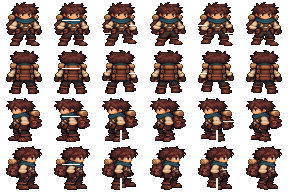
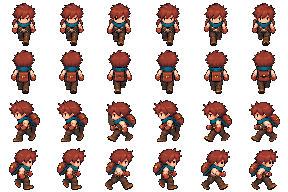
Integrate the approved 16-frame explorer walk without redrawing

diff --git a/tools/build_explorer_atlas.py b/tools/build_explorer_atlas.py
@@ -1,105 +1,66 @@
-"""Build transparent 48px explorer frames from the four-view pixel source.
+"""Deterministically extract the approved v0.3.7 poses, without redrawing.
 
-Only a build-time Pillow dependency is needed; Godot consumes the committed PNG.
-Rows: down, up, left, right. Columns: idle A/B, walk 0/1/2/3.
+Build-only dependencies: Pillow, numpy, opencv-python-headless.
+No runtime dependency. Source study is excluded from Godot by .gdignore.
+Rows down/up/left/right; columns held idle A/B, then four approved walk poses.
 """
-
 from pathlib import Path
+import cv2
+import numpy as np
 from PIL import Image
 
 ROOT = Path(__file__).resolve().parents[1]
-SOURCE = ROOT / "tools/source/explorer_views.png"
-DEST = ROOT / "assets/art/explorer_atlas.png"
-PREVIEW = ROOT / "docs/art/EXPLORER_WALK_V036.gif"
+SOURCE = ROOT / 'tools/source/explorer_approved_v037.png'
+DEST = ROOT / 'assets/art/explorer_atlas.png'
+WALK = ROOT / 'docs/art/EXPLORER_SHEET_V037.png'
+XS = [(164,337),(351,531),(548,722),(738,919)]
+YS = [(9,242),(250,488),(495,725),(725,953)]
 SIZE = 48
-# Source views were individually cut and reduced from the reference study.
-BOXES = [
-    (0, 0, 48, 48),      # down
-    (48, 0, 96, 48),    # up
-    (144, 0, 192, 48),  # left: face points to image left
-    (96, 0, 144, 48),   # right: face points to image right
-]
+SCALE = 0.19  # One scale for all 16 poses; no stretching limbs independently.
 
 
-def transparent() -> Image.Image:
-    return Image.new("RGBA", (SIZE, SIZE), (0, 0, 0, 0))
-
-
-def source_view(image: Image.Image, box: tuple[int, ...]) -> Image.Image:
-    frame = image.crop(box)
-    if box[0] == 0:
-        # Two readable eyes at native size; the hair and broad scarf remain the
-        # recognisable silhouette from the approved explorer.
-        frame.putpixel((20, 16), (53, 38, 35, 255))
-        frame.putpixel((29, 16), (53, 38, 35, 255))
+def extract(source, box):
+    rgb = np.array(source.crop(box))
+    h, w = rgb.shape[:2]
+    mask = np.full((h,w), cv2.GC_PR_FGD, np.uint8)
+    # Black outline seeds preserve boots that resemble the brown backdrop.
+    mask[rgb.max(axis=2) < 38] = cv2.GC_FGD
+    mask[:3] = mask[-3:] = cv2.GC_BGD
+    mask[:,:3] = mask[:,-3:] = cv2.GC_BGD
+    cv2.grabCut(rgb, mask, None, np.zeros((1,65)), np.zeros((1,65)),
+                8, cv2.GC_INIT_WITH_MASK)
+    alpha = np.uint8((mask == cv2.GC_FGD) | (mask == cv2.GC_PR_FGD))*255
+    _, labels, stats, _ = cv2.connectedComponentsWithStats(alpha)
+    alpha = labels == 1+np.argmax(stats[1:,cv2.CC_STAT_AREA])
+    rgba = Image.fromarray(np.dstack([rgb, alpha.astype(np.uint8)*255]))
+    bounds = rgba.getbbox()
+    cropped = rgba.crop(bounds)
+    # Head centre is a stable anchor; backpack/arms must not shift the torso.
+    hair = rgba.crop((0,0,w,95)).getbbox()
+    anchor = (hair[0]+hair[2])/2 - bounds[0]
+    resized = cropped.resize((round(cropped.width*SCALE),round(cropped.height*SCALE)),
+                             Image.Resampling.NEAREST)
+    frame = Image.new('RGBA',(SIZE,SIZE))
+    frame.alpha_composite(resized,(24-round(anchor*SCALE),46-resized.height))
+    assert frame.getbbox()[3] == 46
     return frame
 
 
-def idle(base: Image.Image, phase: int) -> Image.Image:
-    if phase == 0:
-        return base.copy()
-    # Only the scarf fringe breathes; the whole head/torso never jumps.
-    result = base.copy()
-    fringe = base.crop((14, 20, 32, 23))
-    result.paste((0, 0, 0, 0), (14, 20, 32, 23))
-    result.alpha_composite(fringe, (14, 21))
-    return result
+def main():
+    cv2.setRNGSeed(0)
+    source = Image.open(SOURCE).convert('RGB')
+    assert source.size == (1536,1024)
+    atlas = Image.new('RGBA',(SIZE*6,SIZE*4))
+    walk = Image.new('RGBA',(SIZE*4,SIZE*4))
+    for row,(y0,y1) in enumerate(YS):
+        frames = [extract(source,(x0,y0,x1,y1)) for x0,x1 in XS]
+        for column,frame in enumerate([frames[1],frames[1]]+frames):
+            atlas.alpha_composite(frame,(column*SIZE,row*SIZE))
+        for column,frame in enumerate(frames):
+            walk.alpha_composite(frame,(column*SIZE,row*SIZE))
+    atlas.save(DEST,optimize=True)
+    walk.save(WALK,optimize=True)
+    print('Approved walk:',walk.size, WALK.stat().st_size,'bytes; runtime atlas:',DEST.stat().st_size)
 
-
-def walk(base: Image.Image, direction: int, phase: int) -> Image.Image:
-    """Alternating contact/passing boots on one ground line, fixed torso anchor."""
-    result = base.copy()
-    result.paste((0, 0, 0, 0), (0, 34, SIZE, SIZE))
-    # Existing hand-drawn boots remain intact; move each independently by at
-    # most two pixels. Contact soles stay on the original y=45 baseline.
-    boxes = [(10, 34, 24, 47), (25, 34, 41, 47)] if direction < 2 else [
-        (10, 34, 25, 47), (25, 34, 41, 47)]
-    offsets = [((-1, 0), (1, -2)), ((1, 0), (-1, -1)),
-               ((-1, -2), (1, 0)), ((1, -1), (-1, 0))][phase]
-    order = (1, 0) if phase < 2 else (0, 1)
-    for index in order:
-        x0, y0, x1, y1 = boxes[index]
-        dx, dy = offsets[index]
-        leg = base.crop((x0, y0, x1, y1))
-        result.alpha_composite(leg, (x0 + dx, y0 + dy))
-        # Bridge the thigh to the planted hips without stretching the boot.
-        hip_x = 18 if index == 0 else 30
-        for y in range(34, 36):
-            color = base.getpixel((hip_x, y))
-            if color[3]:
-                result.putpixel((hip_x + dx // 2, y), color)
-    result.alpha_composite(base.crop((0, 30, SIZE, 34)), (0, 30))
-    swing = (-1, 0, 1, 0)[phase]
-    arms = ((5, 15), (33, 43)) if direction < 2 else ((31, 43),)
-    for arm_index, (x0, x1) in enumerate(arms):
-        arm = base.crop((x0, 25, x1, 34))
-        result.paste((0, 0, 0, 0), (x0, 25, x1, 34))
-        result.alpha_composite(arm, (x0, 25 + (swing if arm_index == 0 else -swing)))
-    return result
-
-
-def main() -> None:
-    source = Image.open(SOURCE).convert("RGBA")
-    assert source.size == (192, 48), "Unexpected source crop dimensions"
-    atlas = Image.new("RGBA", (SIZE * 6, SIZE * 4), (0, 0, 0, 0))
-    for direction, box in enumerate(BOXES):
-        base = source_view(source, box)
-        frames = [idle(base, 0), idle(base, 1)] + [walk(base, direction, i) for i in range(4)]
-        for column, frame in enumerate(frames):
-            atlas.alpha_composite(frame, (column * SIZE, direction * SIZE))
-    atlas.save(DEST, optimize=True)
-    preview_frames = []
-    for phase in range(4):
-        sheet = Image.new("RGBA", (SIZE * 4, SIZE), "#477b49")
-        for direction in range(4):
-            sheet.alpha_composite(atlas.crop(((phase + 2) * SIZE, direction * SIZE,
-                                             (phase + 3) * SIZE, (direction + 1) * SIZE)),
-                                  (direction * SIZE, 0))
-        preview_frames.append(sheet.resize((SIZE * 12, SIZE * 3), Image.Resampling.NEAREST).convert("RGB"))
-    preview_frames[0].save(PREVIEW, save_all=True, append_images=preview_frames[1:],
-                           duration=160, loop=0, optimize=True)
-    print(f"Wrote {DEST.relative_to(ROOT)}: {atlas.size}")
-
-
-if __name__ == "__main__":
+if __name__ == '__main__':
     main()

diff --git a/docs/iterations/V0.3.7_EXPLORADOR.md b/docs/iterations/V0.3.7_EXPLORADOR.md
@@ -1,0 +1,40 @@
+# v0.3.7 — Explorador aprovado integrado
+
+Base remota verificada: 303dfcf30873c3737eaa585086ce299717459160.
+Thiago aprovou explicitamente os 16 quadros, sem redesenho das pernas.
+
+## Arte e integração
+
+- Extração determinística apenas da grade esquerda da imagem 1000485808.png.
+- Segmentação do fundo com contornos escuros como sementes para preservar botas.
+- Nenhuma pose sintetizada ou perna redesenhada. Pequenas diferenças da referência permanecem.
+- Uma escala 0,19 para todas as poses; células 48×48, pés na linha 46,
+  ancoragem horizontal pela cabeça e filtro nearest. A redução perde detalhes finos.
+- Folha transparente com os 16 quadros: docs/art/EXPLORER_SHEET_V037.png.
+- Atlas de execução: assets/art/explorer_atlas.png, 288×192, ~40,7 KB.
+  Duas colunas compatíveis de repouso usam a mesma pose aprovada de passagem.
+  Em repouso o personagem fica estático; sem alterar outras ações ou criar idle novo.
+- Caminhada avança a cada 16 pixels reais (11,25 quadros/s a 180 px/s),
+  mantendo sincronização com velocidade, parada e obstáculos. Velocidade física intacta.
+- tools/build_explorer_atlas.py reproduz os recortes da fonte em tools/source/,
+  ignorada pela importação/exportação. Dependências Python são só de preparação;
+  Godot não ganhou dependências, nós ou recursos gerados durante a execução.
+
+## Verificação local
+
+Godot 4.5.1 reextraído do ZIP válido (o executável anterior estava truncado).
+Importação sem erros; 335 verificações sem falhas, incluindo saves, menus,
+movimentação, touch/teclado, acesso aos serviços e colisões da v0.3.5.
+43 capturas reais revisadas em 360×640, 390×844, 640×360 e 960×540.
+`tests/walk_capture.gd` movimenta o PlayerActor através do InputDriver e da
+física real, sem atribuir quadros manualmente. Capturou 72 imagens a passo
+fixo de 60 Hz; deslocamento 162 px em cada direção, com os mesmos obstáculos.
+GIF em docs/art/EXPLORER_WALK_V037.gif monta recortes desses frames a 20 Hz.
+O reinício do loop do GIF reinicia a demonstração; não é salto do personagem no jogo.
+
+Sonda headless: 142 nós, 63 colisores, 28.746,5 KiB de memória estática.
+Tempo de abertura varia muito neste ambiente; não serve para declarar ganho.
+Nenhuma medição de FPS ou fluidez em aparelho físico foi feita.
+Fonte e evidências ficam fora do pacote Web (filtros de export existentes).
+Exportação Web e publicação são validadas pelo CI do commit entregue.
+Somente branch de desenvolvimento e alias de TESTE; main e produção preservados.
